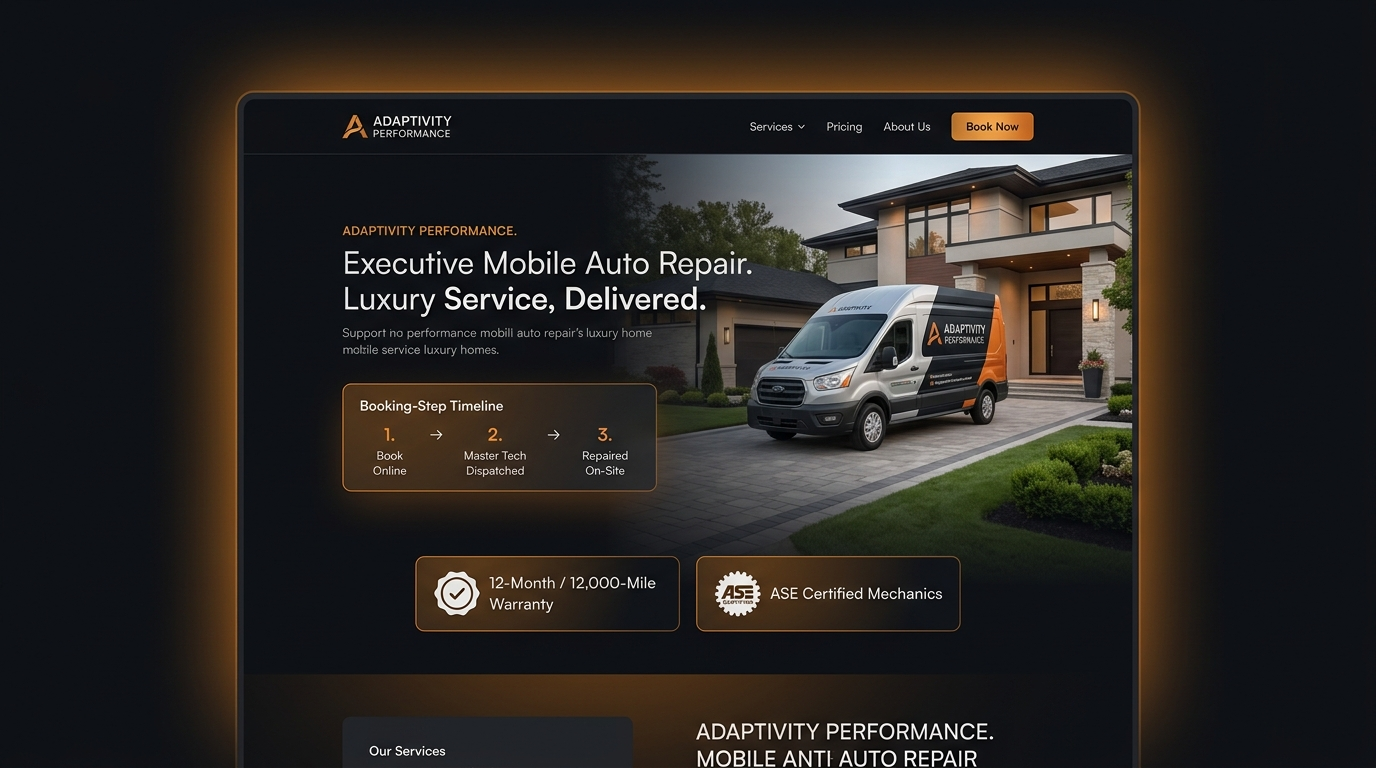
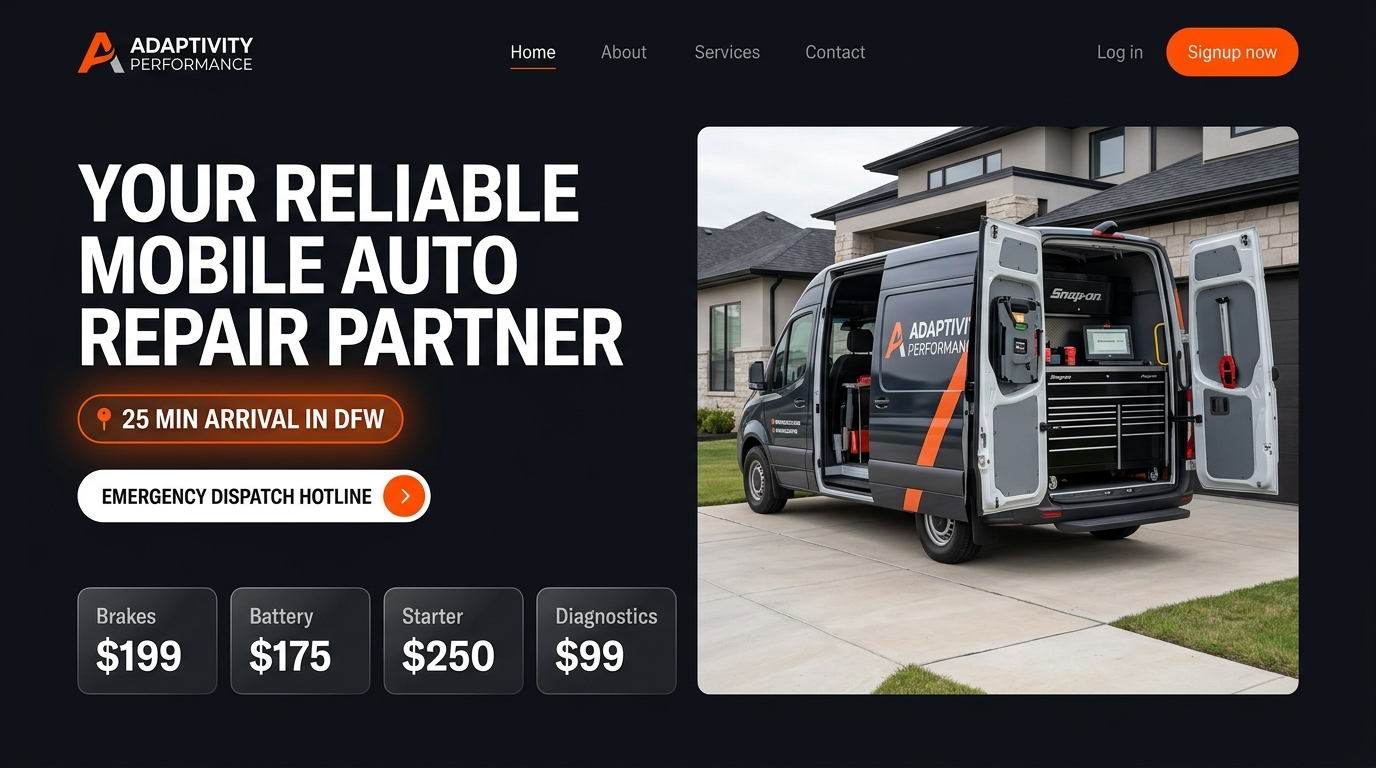
feat: implement Concept 7 layout with driveway van, live arrival pill, emergency hotline, and upfront price cards

diff --git a/src/components/Hero.tsx b/src/components/Hero.tsx
@@ -1,160 +1,151 @@
 import React from 'react';
-import { Truck, Wrench, ShieldCheck, ArrowRight, Calendar } from 'lucide-react';
+import { Truck, ArrowRight, Calendar, MapPin, Phone, ShieldCheck } from 'lucide-react';
 import { StoreBadgeLinks } from './StoreBadgeLinks';
-import { SiteLink } from '../site/SiteLink';
+import { SITE_PHONE_DISPLAY, SITE_PHONE_TEL } from '../site/seo';
 
 interface HeroProps {
   onOpenBooking: () => void;
   onSelectServiceMode?: (mode: 'mobile' | 'shop') => void;
 }
 
+const UPFRONT_CARDS = [
+  { title: 'Brakes', price: '$199', desc: 'Pads & rotors on-site' },
+  { title: 'Battery', price: '$175', desc: 'Swap & load test' },
+  { title: 'Starter', price: '$250', desc: 'Roadside & driveway' },
+  { title: 'Diagnostics', price: '$99', desc: '100% credited if repaired' },
+];
+
 export const Hero: React.FC<HeroProps> = ({ onOpenBooking }) => {
   return (
-    <section className="relative pt-6 pb-12 overflow-hidden bg-[#07080b]">
-      {/* Top warm ambient orange backlighting */}
-      <div className="absolute top-0 left-1/2 -translate-x-1/2 w-full max-w-5xl h-[320px] bg-gradient-to-b from-orange-500/20 via-amber-600/10 to-transparent blur-[120px] pointer-events-none -z-10"></div>
+    <section className="relative pt-8 pb-16 overflow-hidden bg-[#07080b]">
+      {/* Ambient warm orange radial glows */}
+      <div className="absolute top-0 left-1/2 -translate-x-1/2 w-full max-w-6xl h-[360px] bg-gradient-to-b from-orange-500/18 via-amber-600/10 to-transparent blur-[140px] pointer-events-none -z-10"></div>
 
       <div className="container mx-auto px-4 sm:px-6 relative z-10 max-w-7xl">
         
-        {/* Main Hero Container matching Concept 3 */}
-        <div className="relative rounded-3xl overflow-hidden border border-white/10 bg-[#0c0e14] shadow-[0_20px_60px_rgba(0,0,0,0.8)]">
+        {/* Main Grid: Left Content + Right Van Visual Frame */}
+        <div className="grid grid-cols-1 lg:grid-cols-12 gap-8 lg:gap-10 items-center">
           
-          {/* Background Right Van Image with Left Fade Overlay */}
-          <div className="absolute inset-0 z-0 hidden md:block">
-            <img
-              src="/images/hero-van.jpg"
-              alt="Adaptivity Performance Mobile Repair Van"
-              className="w-full h-full object-cover object-right"
-            />
-            {/* Linear and radial gradients to smoothly blend background into text */}
-            <div className="absolute inset-0 bg-gradient-to-r from-[#0c0e14] via-[#0c0e14]/95 via-50% to-[#0c0e14]/30"></div>
-            <div className="absolute inset-0 bg-gradient-to-t from-[#0c0e14] via-transparent to-[#0c0e14]/60"></div>
-          </div>
-
-          <div className="relative z-10 p-6 sm:p-10 lg:p-14 max-w-2xl space-y-6 text-left">
-            {/* Category tag */}
-            <div className="space-y-1">
-              <span className="text-xs font-black tracking-widest text-orange-400 uppercase">
-                ADAPTIVITY PERFORMANCE.
-              </span>
-              <h1 className="font-heading text-3xl sm:text-4xl lg:text-5xl font-black text-white tracking-tight leading-[1.15]">
-                Professional Mobile Auto Repair.{' '}
-                <span className="text-transparent bg-clip-text bg-gradient-to-r from-orange-400 via-amber-300 to-orange-500 block">
-                  Expert Service, Delivered.
-                </span>
+          {/* Left Column: Heading, Live Arrival Pill, CTAs, and Upfront Price Cards */}
+          <div className="lg:col-span-6 space-y-6 text-left">
+            
+            {/* Main Headline */}
+            <div className="space-y-3">
+              <h1 className="font-heading text-4xl sm:text-5xl xl:text-6xl font-black tracking-tight text-white leading-[1.08] uppercase">
+                Your Reliable <br />
+                <span className="text-transparent bg-clip-text bg-gradient-to-r from-orange-400 via-amber-300 to-orange-500">
+                  Mobile Auto Repair
+                </span> <br />
+                Partner
               </h1>
+              <p className="text-slate-400 text-sm sm:text-base leading-relaxed max-w-xl">
+                Expert certified mechanics come directly to your home or office across DFW. 
+                Emergency roadside dispatch, brakes, batteries, starters, and scheduled maintenance.
+              </p>
             </div>
 
-            <p className="text-slate-400 text-sm sm:text-base leading-relaxed">
-              Bringing complete automotive repair, diagnostics, and precision maintenance directly to your home or office across DFW. Zero towing needed.
-            </p>
-
-            {/* Concept 3: Booking-Step Timeline Box */}
-            <div className="p-4 sm:p-5 rounded-2xl bg-[#07080b]/90 border border-orange-500/30 shadow-[0_0_25px_rgba(249,115,22,0.12)] space-y-3">
-              <div className="text-xs font-bold text-slate-300 uppercase tracking-wider">
-                Booking-Step Timeline
+            {/* Live Arrival Ticker Pill */}
+            <div className="inline-flex items-center gap-2.5 px-4 py-2 rounded-2xl bg-[#0f1118] border border-orange-500/40 shadow-[0_0_20px_rgba(249,115,22,0.15)]">
+              <div className="w-6 h-6 rounded-lg bg-orange-500/20 border border-orange-500/40 flex items-center justify-center text-orange-400">
+                <MapPin className="w-3.5 h-3.5" />
               </div>
-
-              <div className="flex items-center justify-between gap-1 sm:gap-2">
-                <div className="text-left space-y-0.5">
-                  <div className="text-base font-black text-orange-400">1.</div>
-                  <div className="text-xs font-bold text-white">Book Online</div>
-                  <div className="text-[10px] text-slate-400">Instant Quote</div>
-                </div>
-
-                <div className="text-slate-600 font-bold text-lg">→</div>
-
-                <div className="text-left space-y-0.5">
-                  <div className="text-base font-black text-orange-400">2.</div>
-                  <div className="text-xs font-bold text-white">Tech Dispatched</div>
-                  <div className="text-[10px] text-slate-400">Mobile Van En Route</div>
-                </div>
-
-                <div className="text-slate-600 font-bold text-lg">→</div>
-
-                <div className="text-left space-y-0.5">
-                  <div className="text-base font-black text-orange-400">3.</div>
-                  <div className="text-xs font-bold text-white">Repaired On-Site</div>
-                  <div className="text-[10px] text-slate-400">Fixed In Driveway</div>
-                </div>
-              </div>
+              <span className="text-xs sm:text-sm font-black text-white tracking-wide uppercase">
+                📍 25 Min Arrival in DFW
+              </span>
+              <span className="flex h-2 w-2 rounded-full bg-emerald-400 animate-pulse ml-1" />
             </div>
 
-            {/* Concept 3: Side-by-Side Trust Badges */}
-            <div className="grid grid-cols-1 sm:grid-cols-2 gap-3 pt-1">
-              <div className="flex items-center gap-3 p-3.5 rounded-2xl bg-[#07080b]/90 border border-white/10 hover:border-orange-500/30 transition-colors">
-                <div className="w-10 h-10 rounded-xl bg-orange-500/15 border border-orange-500/30 flex items-center justify-center text-orange-400 shrink-0">
-                  <ShieldCheck className="w-5 h-5" />
-                </div>
-                <div>
-                  <div className="text-xs font-bold text-white">12-Month / 12,000-Mile</div>
-                  <div className="text-[11px] text-slate-400">Warranty on parts & labor</div>
-                </div>
-              </div>
-
-              <div className="flex items-center gap-3 p-3.5 rounded-2xl bg-[#07080b]/90 border border-white/10 hover:border-orange-500/30 transition-colors">
-                <div className="w-10 h-10 rounded-xl bg-emerald-500/15 border border-emerald-500/30 flex items-center justify-center text-emerald-400 shrink-0">
-                  <Wrench className="w-5 h-5" />
-                </div>
-                <div>
-                  <div className="text-xs font-bold text-white">ASE Certified Techs</div>
-                  <div className="text-[11px] text-slate-400">Fully insured & background checked</div>
-                </div>
-              </div>
-            </div>
-
-            {/* CTAs */}
-            <div className="pt-2 flex flex-col sm:flex-row items-center gap-3">
+            {/* CTAs Row */}
+            <div className="flex flex-col sm:flex-row items-center gap-3 pt-1">
               <button
+                type="button"
                 onClick={onOpenBooking}
-                className="w-full sm:w-auto flex-1 flex items-center justify-center space-x-2.5 bg-gradient-to-r from-orange-500 via-orange-600 to-amber-600 hover:from-orange-600 hover:to-amber-700 text-white font-bold text-sm sm:text-base px-7 py-3.5 rounded-xl shadow-xl shadow-orange-500/25 transition-all transform hover:-translate-y-0.5"
+                className="w-full sm:w-auto flex-1 flex items-center justify-center space-x-3 bg-gradient-to-r from-orange-500 via-orange-600 to-amber-600 hover:from-orange-600 hover:to-amber-700 text-white font-black text-sm sm:text-base uppercase tracking-wider px-8 py-4 rounded-2xl shadow-xl shadow-orange-500/25 transition-all transform hover:-translate-y-0.5 active:scale-95"
               >
                 <Calendar className="w-4 h-4" />
-                <span>Book Service Now</span>
+                <span>Request Service Now</span>
                 <ArrowRight className="w-4 h-4" />
               </button>
 
-              <SiteLink
-                to="services"
-                className="w-full sm:w-auto flex items-center justify-center space-x-2 bg-slate-900/90 hover:bg-slate-800 text-slate-200 font-semibold text-sm sm:text-base px-6 py-3.5 rounded-xl border border-white/10 transition-colors"
+              <a
+                href={SITE_PHONE_TEL}
+                className="w-full sm:w-auto flex items-center justify-center space-x-2 bg-[#12141c] hover:bg-slate-800 text-slate-200 font-bold text-xs sm:text-sm px-5 py-4 rounded-2xl border border-white/10 hover:border-orange-500/30 transition-colors"
               >
-                <span>Browse Services</span>
-              </SiteLink>
-            </div>
-          </div>
-
-          {/* Mobile Image Fallback for smaller screens */}
-          <div className="block md:hidden border-t border-white/10 relative">
-            <img
-              src="/images/hero-van.jpg"
-              alt="Adaptivity Performance Mobile Repair Van"
-              className="w-full h-56 object-cover object-center"
-            />
-            <div className="absolute inset-0 bg-gradient-to-t from-[#0c0e14] via-transparent to-transparent"></div>
-          </div>
-
-          {/* Bottom Full-Width Dispatch Banner (Matching Concept 3 screenshot) */}
-          <div className="relative z-10 p-4 sm:p-5 bg-[#07080b]/95 border-t border-white/10 flex flex-wrap items-center justify-between gap-3">
-            <div className="flex items-center gap-3">
-              <div className="w-10 h-10 rounded-xl bg-orange-500/15 border border-orange-500/30 flex items-center justify-center text-orange-400 shrink-0">
-                <Truck className="w-5 h-5" />
-              </div>
-              <div className="text-left">
-                <div className="text-sm font-bold text-white">Mobile Van Units Dispatched</div>
-                <div className="text-xs text-slate-400">DFW · Justin · Northlake · Denton · Fort Worth</div>
-              </div>
+                <Phone className="w-4 h-4 text-orange-400" />
+                <span>Call {SITE_PHONE_DISPLAY}</span>
+              </a>
             </div>
 
-            <span className="px-3.5 py-1 rounded-lg bg-emerald-500/15 border border-emerald-500/30 text-emerald-400 text-xs font-bold flex items-center gap-1.5">
-              <span className="w-2 h-2 rounded-full bg-emerald-400 animate-pulse"></span>
-              <span>On-Site Active</span>
-            </span>
+            {/* 4 Upfront Price Cards Row */}
+            <div className="grid grid-cols-2 sm:grid-cols-4 gap-2.5 pt-2">
+              {UPFRONT_CARDS.map((card, idx) => (
+                <div
+                  key={idx}
+                  onClick={onOpenBooking}
+                  className="p-3.5 rounded-2xl bg-[#0c0e14]/90 border border-white/10 hover:border-orange-500/50 cursor-pointer transition-all hover:-translate-y-0.5 shadow-md space-y-1 text-left group"
+                >
+                  <div className="text-[11px] font-bold text-slate-400 group-hover:text-orange-400 transition-colors">
+                    {card.title}
+                  </div>
+                  <div className="text-xl font-black text-white">
+                    {card.price}
+                  </div>
+                  <div className="text-[10px] text-slate-500 line-clamp-1">
+                    {card.desc}
+                  </div>
+                </div>
+              ))}
+            </div>
+
+            {/* Trust Guarantee Badges */}
+            <div className="flex flex-wrap items-center gap-4 text-xs text-slate-400 pt-1">
+              <span className="flex items-center gap-1.5 font-medium">
+                <ShieldCheck className="w-4 h-4 text-orange-400" />
+                <span>12-Mo / 12,000-Mi Warranty</span>
+              </span>
+              <span className="flex items-center gap-1.5 font-medium">
+                <Truck className="w-4 h-4 text-emerald-400" />
+                <span>Zero Towing Required</span>
+              </span>
+            </div>
+
+          </div>
+
+          {/* Right Column: Correct Driveway Van Image in Rounded Frame */}
+          <div className="lg:col-span-6 relative">
+            <div className="absolute inset-0 bg-gradient-to-tr from-orange-600/25 via-amber-500/15 to-transparent blur-3xl rounded-3xl -z-10 scale-105"></div>
+            
+            <div className="relative rounded-3xl overflow-hidden border border-orange-500/30 shadow-[0_0_60px_rgba(0,0,0,0.8)] bg-[#0c0e14]">
+              <img
+                src="/images/hero-van.jpg"
+                alt="Adaptivity Performance Mobile Mechanic Van parked in driveway with tool setup"
+                className="w-full h-[380px] sm:h-[480px] object-cover object-center"
+              />
+              <div className="absolute inset-0 bg-gradient-to-t from-[#07080b]/80 via-transparent to-transparent"></div>
+              
+              {/* Bottom Badge Bar on Image */}
+              <div className="absolute bottom-4 left-4 right-4 p-3.5 rounded-2xl bg-black/80 backdrop-blur-md border border-white/10 flex items-center justify-between">
+                <div className="flex items-center gap-3">
+                  <div className="w-9 h-9 rounded-xl bg-orange-500/20 border border-orange-500/40 flex items-center justify-center text-orange-400 shrink-0">
+                    <Truck className="w-4 h-4" />
+                  </div>
+                  <div className="text-left">
+                    <div className="text-xs font-bold text-white">Full On-Site Mobile Workshop</div>
+                    <div className="text-[10px] text-slate-400">Snap-on Diagnostic Gear & OE Parts</div>
+                  </div>
+                </div>
+                <span className="text-[10px] font-bold text-emerald-400 bg-emerald-500/20 px-2.5 py-1 rounded-full flex items-center gap-1">
+                  <span className="w-1.5 h-1.5 rounded-full bg-emerald-400 animate-pulse"></span>
+                  <span>Active</span>
+                </span>
+              </div>
+            </div>
           </div>
 
         </div>
 
         {/* Customer App Download Badges */}
-        <div className="pt-8 flex flex-col items-center gap-2 text-center">
+        <div className="pt-10 flex flex-col items-center gap-2 text-center">
           <p className="text-[10px] font-semibold uppercase tracking-widest text-slate-500">
             Download the Adaptivity customer app
           </p>
